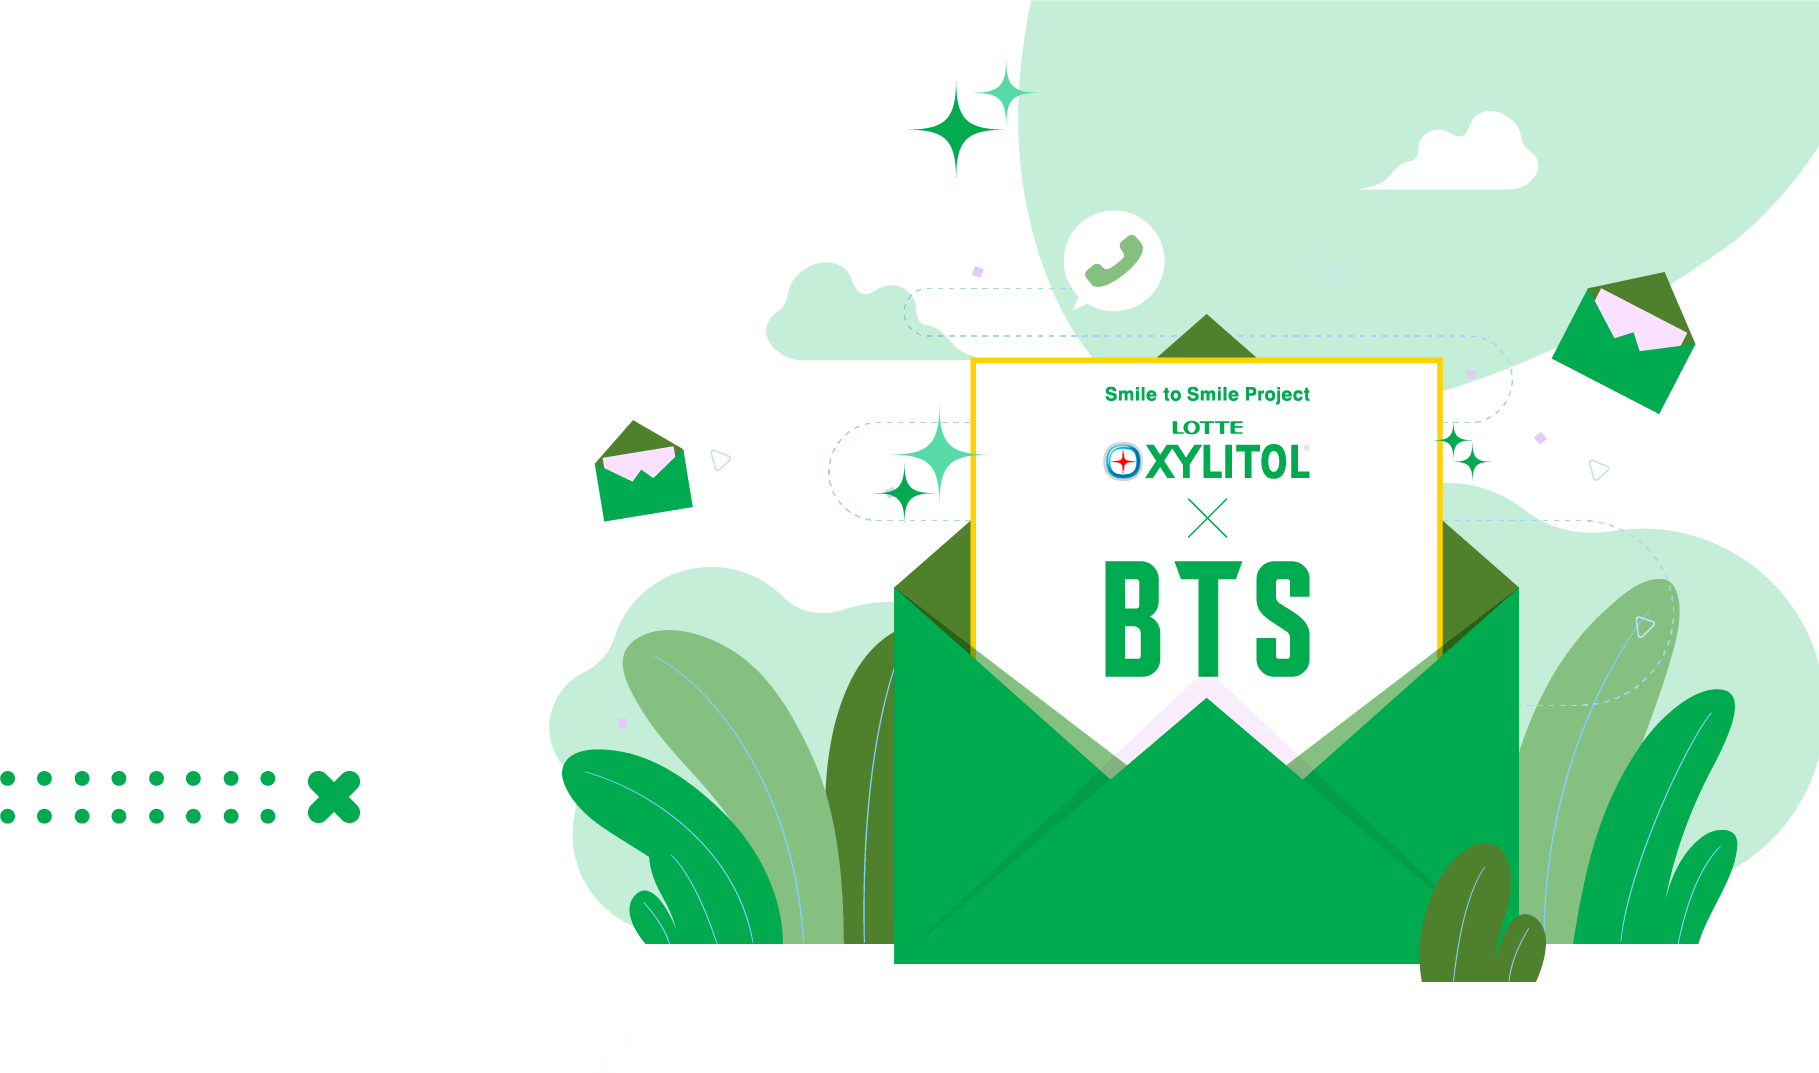
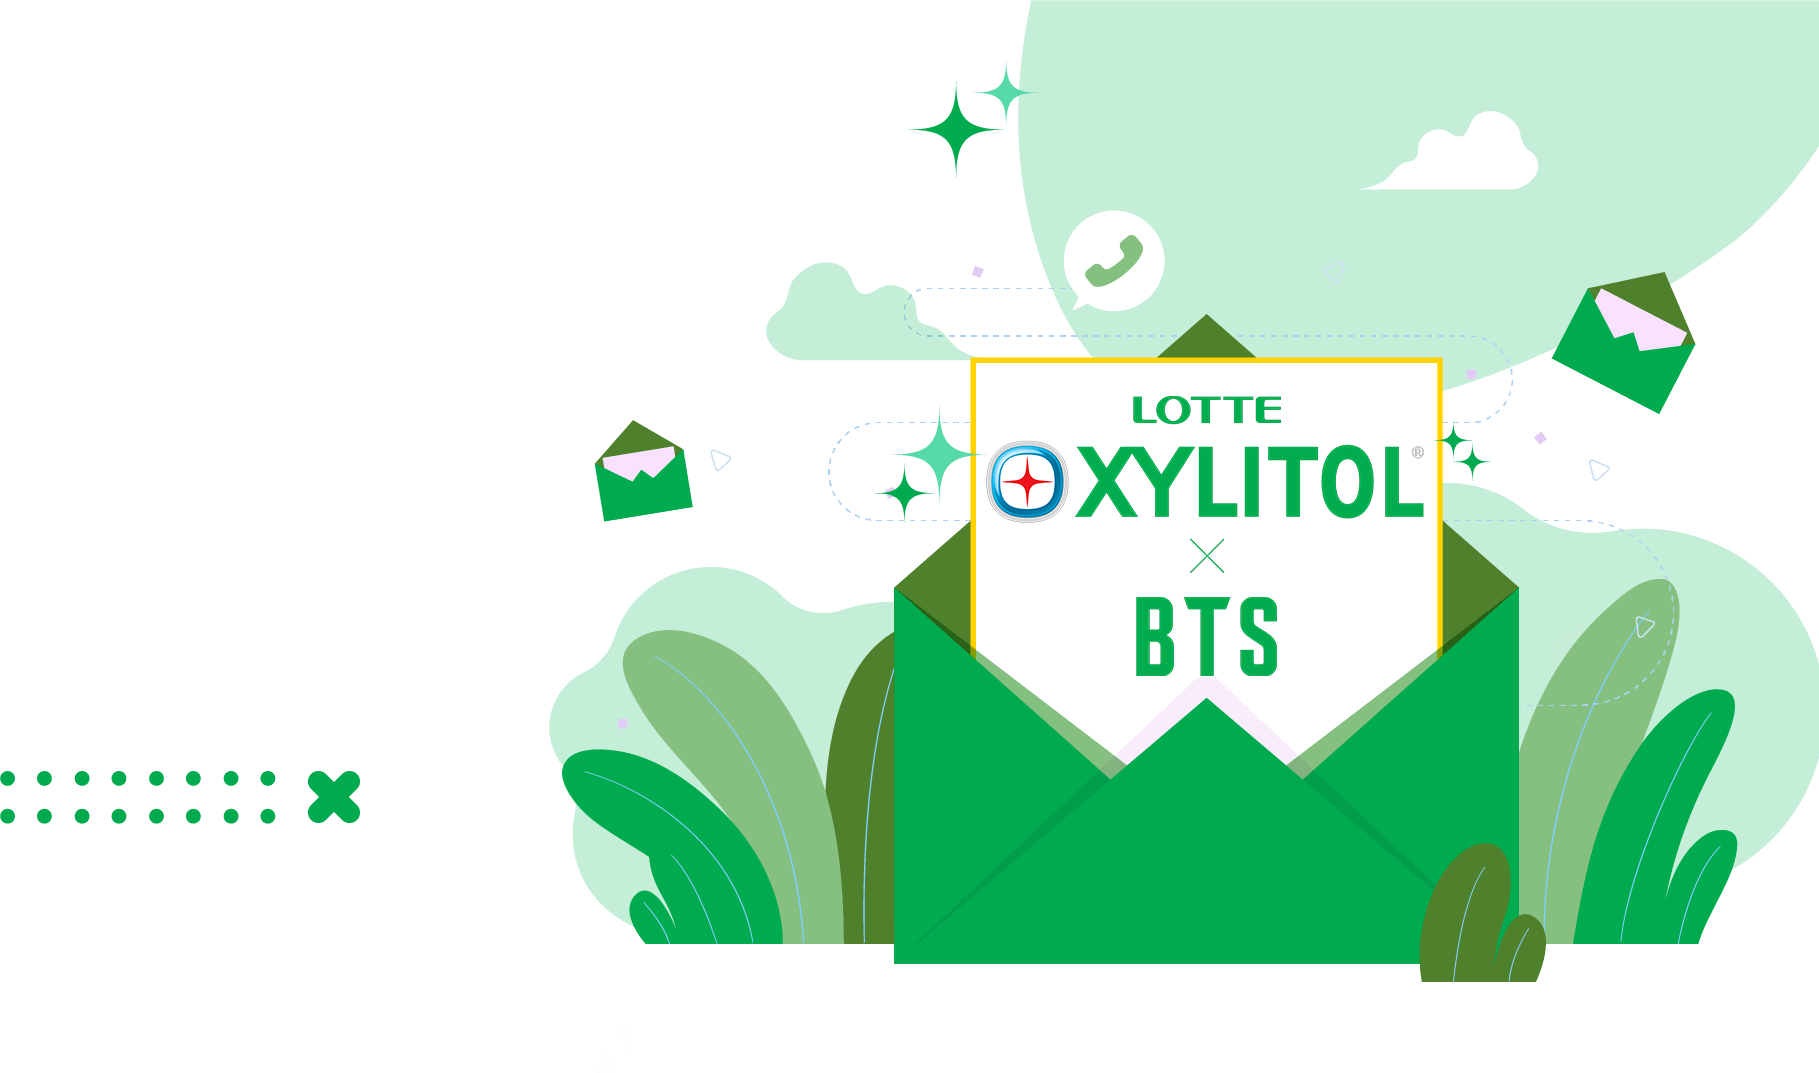
update contact-us

Changed region(s): [[0.5234, 0.3383, 0.8004, 0.4921], [0.5849, 0.5228, 0.7389, 0.6459]]

diff --git a/template/lottexylitolsmile.id/css/webStyle.1.9.css b/template/lottexylitolsmile.id/css/webStyle.1.9.css
@@ -676,6 +676,7 @@ input[type=number]::-webkit-outer-spin-button {
     
     #contact-us .content-panel{background-image: none; min-height: inherit; height: auto}
     #contact-us .logo-top-right{display: none;}
+    #contact-us .subsec-logo{margin: auto;}
     #contact-us .subsec-01 {display: inherit}
     #lucky-draw .lucky-list li {width: 50%;} 
     #lucky-draw .search-voucher {width:100%;}
@@ -831,6 +832,8 @@ input[type=number]::-webkit-outer-spin-button {
     background-color: white;
     padding: 36px 10px 21px 10px;
 }
+
+#contact-us .subsec-logo-ff{width: 15em; height: 5em; background-size: contain ; background-repeat: no-repeat; background-position:center;background-image: url(../img/img-04.png)}
 
 @media (min-width:961px)  {
      /* tablet, landscape iPad, lo-res laptops ands desktops */ 

diff --git a/template/lottexylitolsmile.id/index.html b/template/lottexylitolsmile.id/index.html
@@ -134,7 +134,7 @@ Meski sering kali kesulitan datang, tapi akan selalu ada hal yang membuat bahagi
     </div>
     <div class="div-table-row">
         <div class="div-table-col-5"><div class="bullets">4</div></div>
-        <div class="div-table-col-5">Apabila kamu berhasil mengumpulkan 4O poin. selain mendapat nomor tiket untuk Lucky Draw Foldable Card, kamu juga akan mendapat (satu) tambahan tiket lucky draw untuk memenangkan saldo e-wallet Rp100.000.</div>
+        <div class="div-table-col-5">Apabila kamu berhasil mengumpulkan minimal 40 point, selain mendapatkan nomor tiket untuk Lucky Draw Foldable Card, kamu juga akan mendapatkan 1 (satu) tambahan tiket Lucky Draw untuk memenangkan saldo e-wallet Rp 100.000 dan tidak berlaku kelipatan.</div>
     </div> 
 </div>     
     

diff --git a/template/lottexylitolsmile.id/how-to-join.html b/template/lottexylitolsmile.id/how-to-join.html
@@ -21,7 +21,7 @@
     </div>
     <div class="div-table-row">
         <div class="div-table-col-5"><div class="bullets">4</div></div>
-        <div class="div-table-col-5">Apabila kamu berhasil mengumpulkan 4O poin. selain mendapat nomor tiket untuk Lucky Draw Foldable Card, kamu juga akan mendapat (satu) tambahan tiket lucky draw untuk memenangkan saldo e-wallet Rp100.000.</div>
+        <div class="div-table-col-5">Apabila kamu berhasil mengumpulkan minimal 40 point, selain mendapatkan nomor tiket untuk Lucky Draw Foldable Card, kamu juga akan mendapatkan 1 (satu) tambahan tiket Lucky Draw untuk memenangkan saldo e-wallet Rp 100.000 dan tidak berlaku kelipatan.</div>
     </div> 
 </div>     
     

diff --git a/template/lottexylitolsmile.id/contact-us.html b/template/lottexylitolsmile.id/contact-us.html
@@ -3,9 +3,9 @@
 {% block content %} 
 <div class="content-panel">
 <!-- new logo xy 7okt -->
-<div class="logo-top-right">
+<!-- <div class="logo-top-right">
     <img src="{{ TEMPLATE_IMG_PATH }}logo-contact-us-right-top.webp" alt="logo lotte xylitol x bts" style="width: 308px; height: fit-content;">
-</div>
+</div> -->
 <div class="subsec-logo"></div>
 <div class="form-panel"> 
 <div class="title">{{ LANG.contactUs }}</div>
